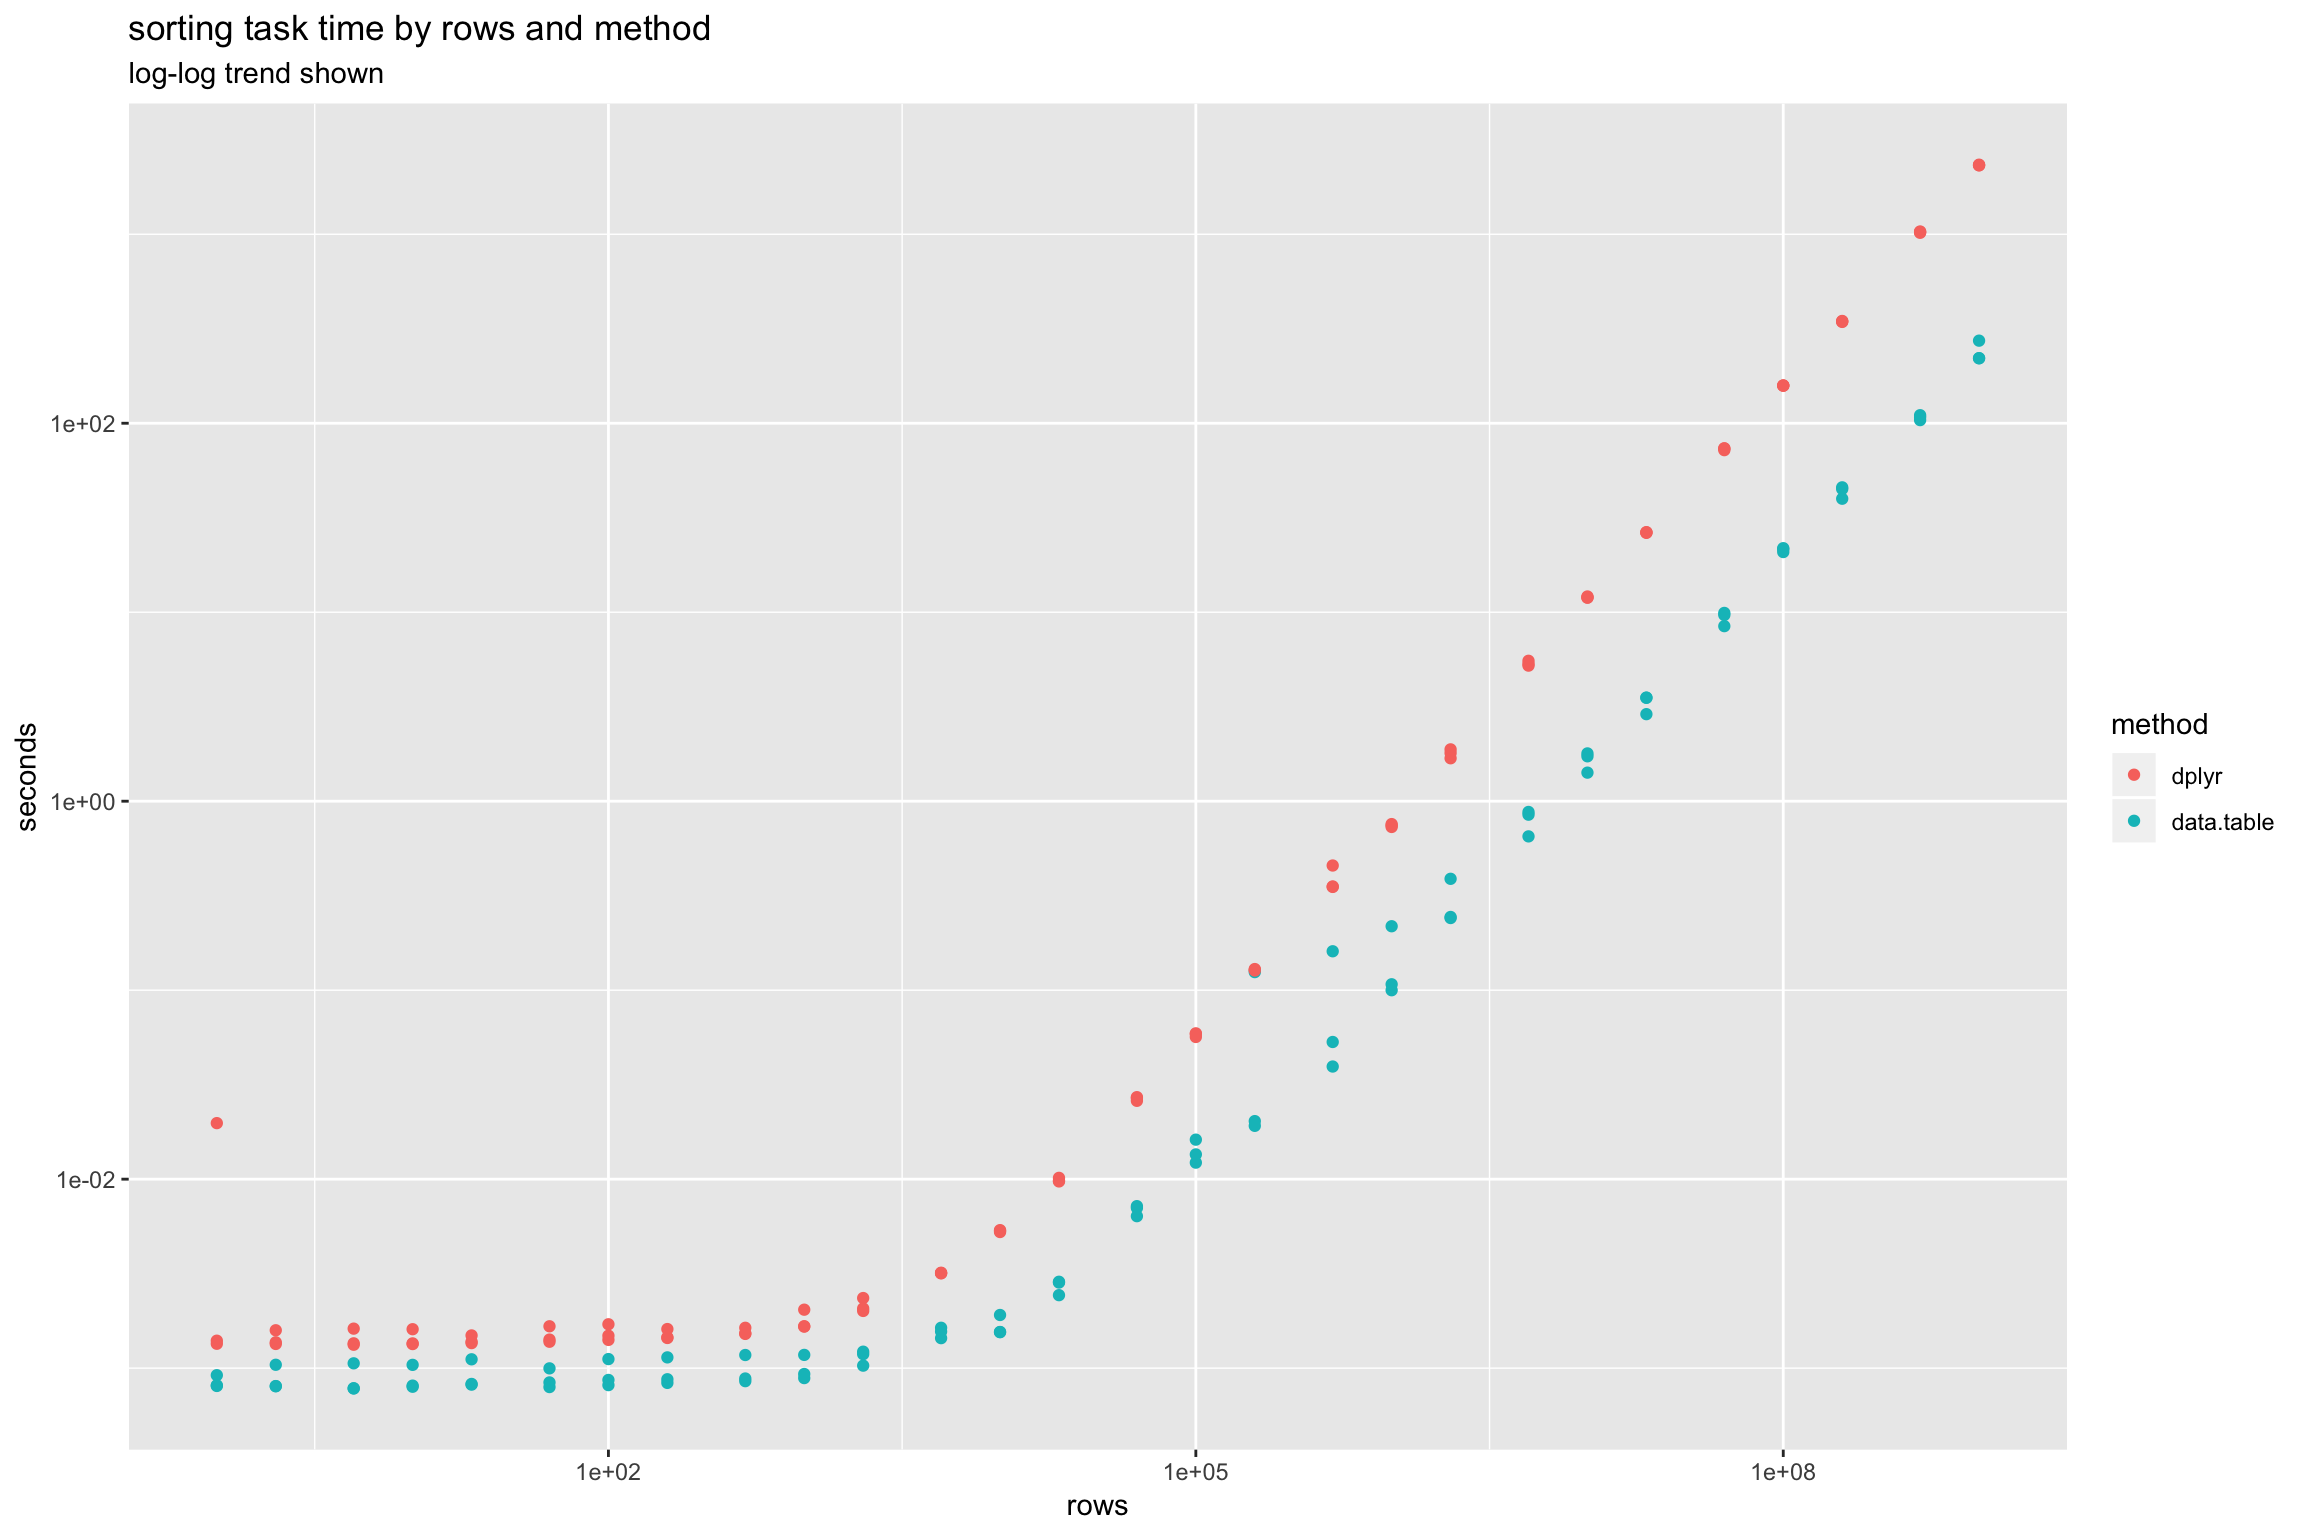
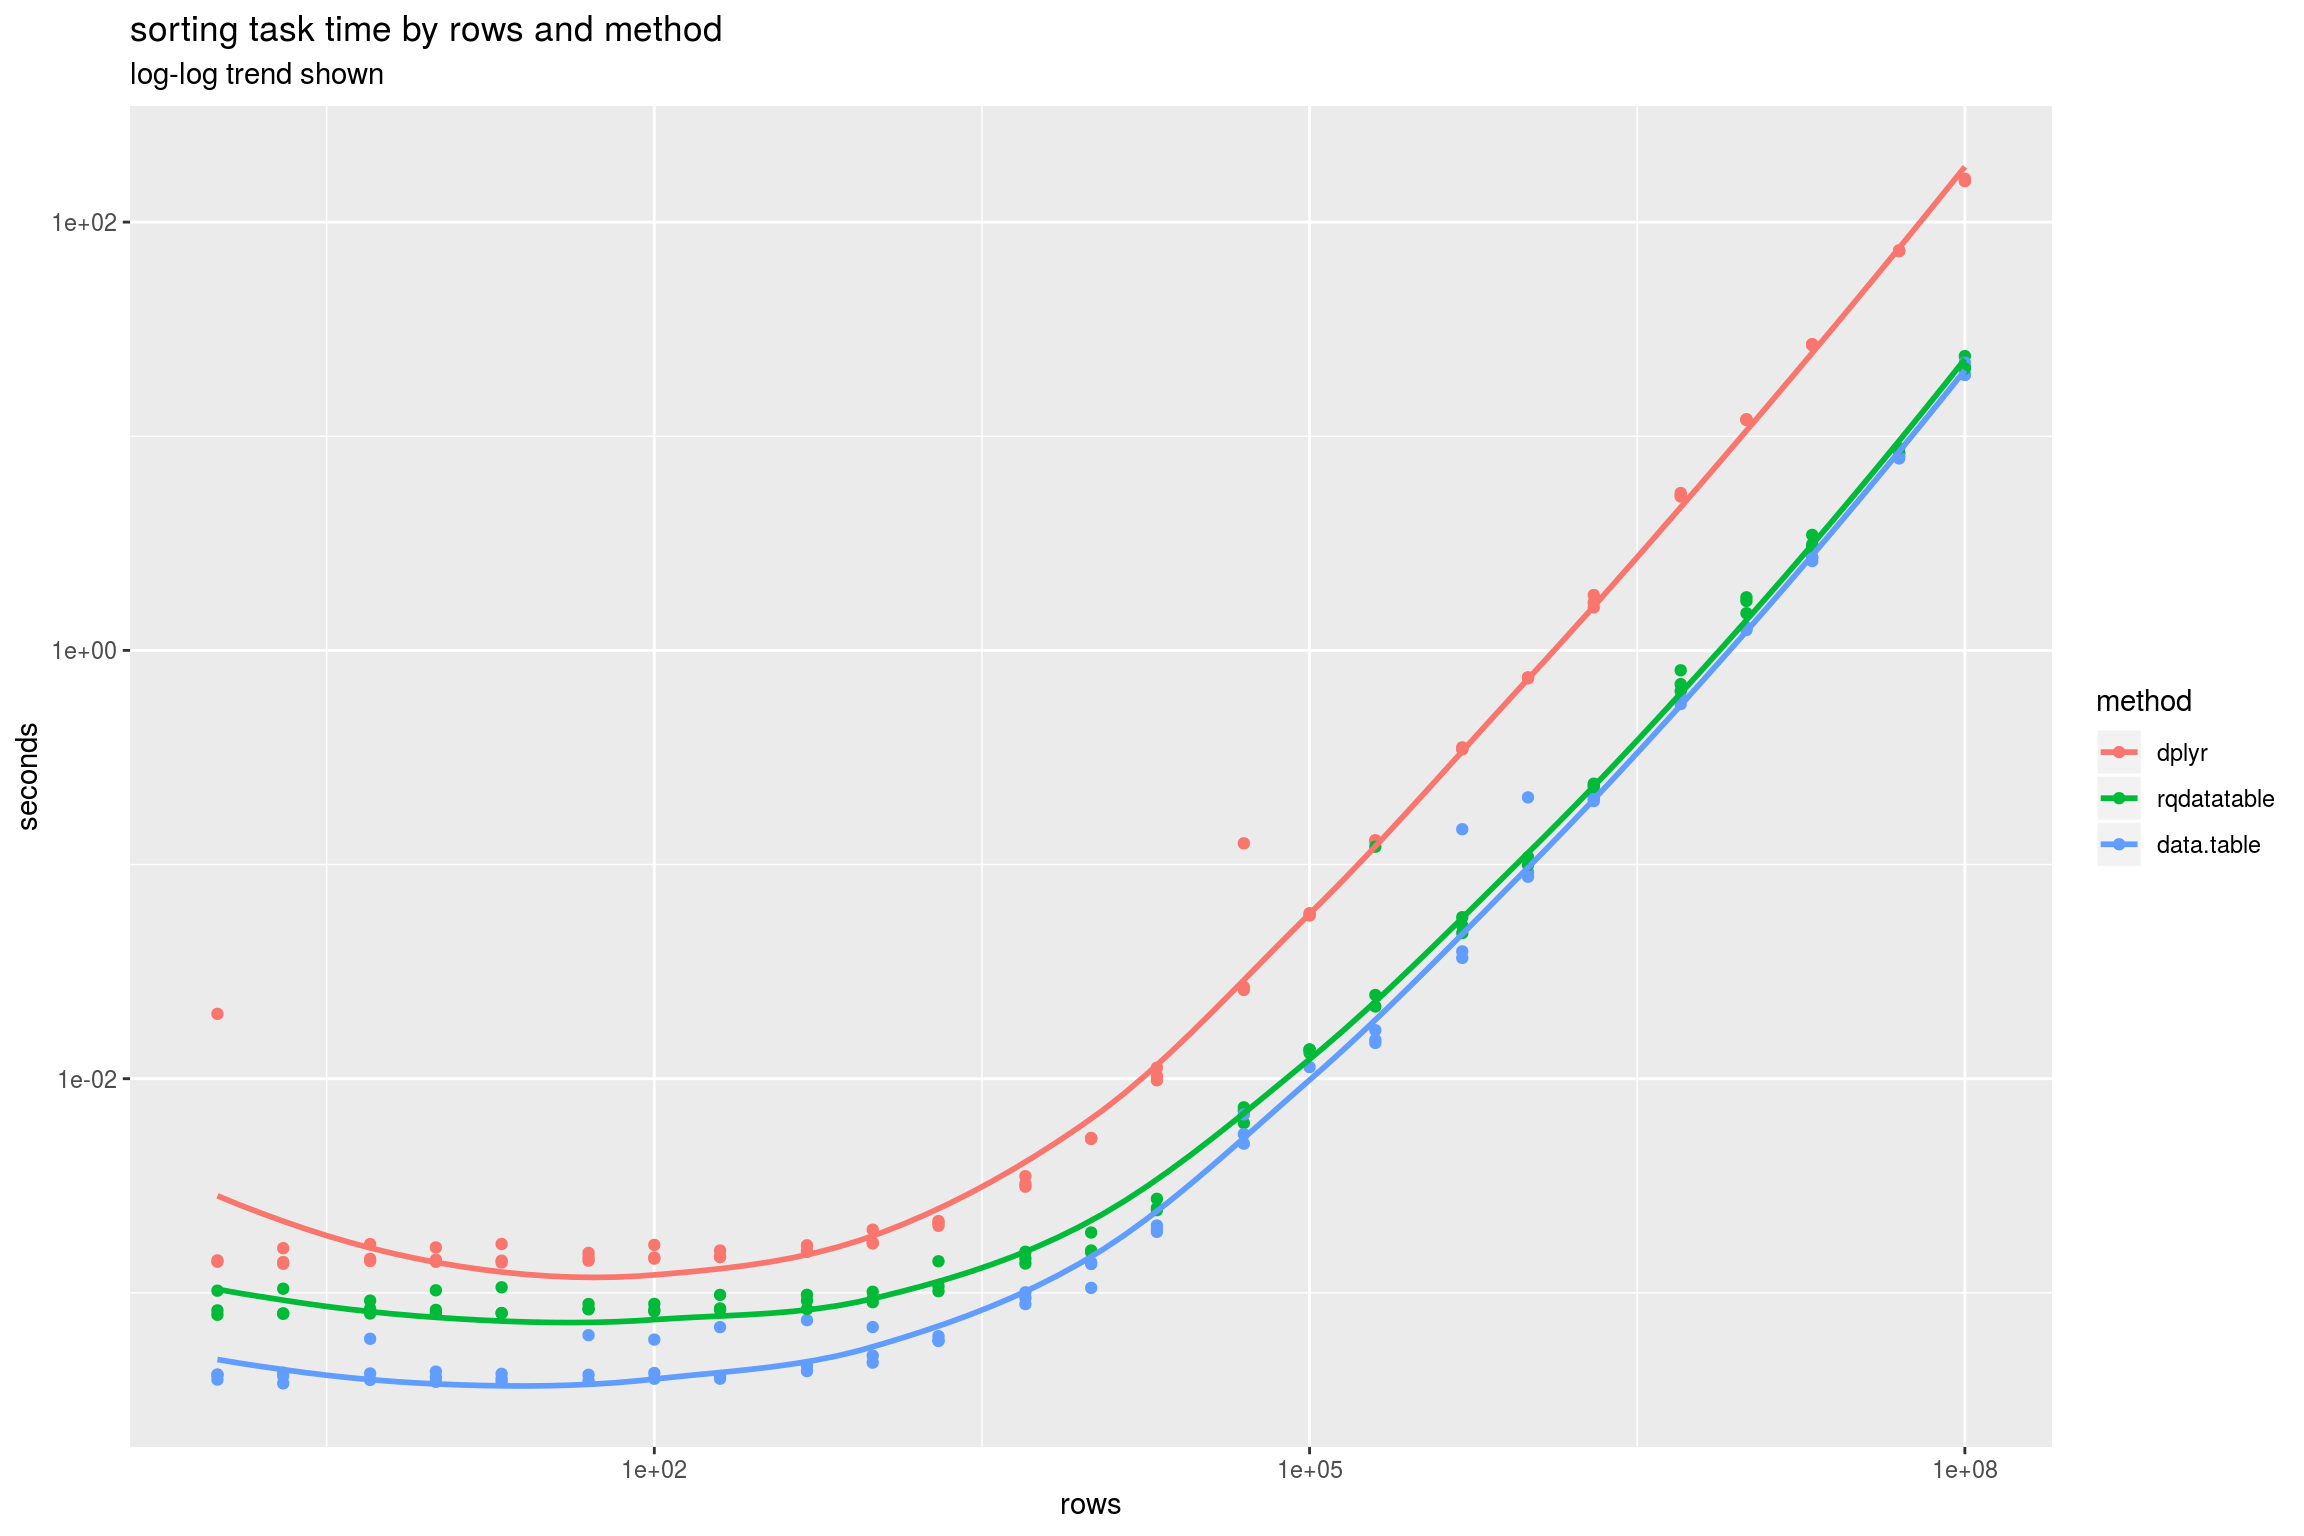
re-run

diff --git a/extras/Sorting.md b/extras/Sorting.md
@@ -17,8 +17,6 @@ library("cdata")
 library("dplyr")
 ```
 
-    ## Warning: package 'dplyr' was built under R version 3.5.1
-
     ## 
     ## Attaching package: 'dplyr'
 
@@ -29,6 +27,17 @@ library("dplyr")
     ## The following objects are masked from 'package:base':
     ## 
     ##     intersect, setdiff, setequal, union
+
+``` r
+library("data.table")
+```
+
+    ## 
+    ## Attaching package: 'data.table'
+
+    ## The following objects are masked from 'package:dplyr':
+    ## 
+    ##     between, first, last
 
 ``` r
 set.seed(32523)
@@ -50,45 +59,78 @@ ops <- mk_td("d", c("col_a", "col_b", "col_c", "col_x")) %.>%
 my_check <- function(values) {
   all(sapply(values[-1], function(x) identical(values[[1]], x)))
 }
+```
 
-if(!file.exists("Sorting_runs.RDS")) {
-  szs <- expand.grid(a = c(1,2,5), b = 10^{0:9})
+``` r
+rds_file <- "Sorting_runs.RDS"
+if(!file.exists(rds_file)) {
+  pow <- 8
+  szs <- expand.grid(a = c(1,2,5), b = 10^{0:pow})
   szs <- sort(unique(szs$a * szs$b))
-  szs <- szs[szs<=1e+9]
+  szs <- szs[szs<=10^pow]
   runs <- lapply(
     szs,
     function(sz) {
       d <- mk_data(sz)
       ti <- microbenchmark(
-        rqdatatable = { d %.>% ops %.>% as.data.frame(.) },
-        dplyr = dplyr::arrange(d, col_a, col_b, col_c, col_x),
+        data.table = {
+          d %.>%
+            as.data.table(.) %.>% 
+            setorder(., col_a, col_b, col_c, col_x) %.>%
+            setDF(.)[] 
+        },
+        rqdatatable = { 
+          d %.>% 
+            ops %.>% 
+            as.data.frame(.) 
+        },
+        dplyr = {
+          dplyr::arrange(d, col_a, col_b, col_c, col_x)
+        },
         times = 3L,
         check = my_check)
       ti <- as.data.frame(ti)
       ti$rows <- sz
       ti
     })
-  saveRDS(runs, "Sorting_runs.RDS")
+  saveRDS(runs, rds_file)
 } else {
-  runs <- readRDS("Sorting_runs.RDS")
+  runs <- readRDS(rds_file)
 }
 ```
 
 ``` r
 timings <- do.call(rbind, runs)
 timings$seconds <- timings$time/1e+9
-timings$method <- gsub("^rqdatatable$", "data.table", timings$expr)
-timings$method <- factor(timings$method)
+timings$method <- factor(timings$expr)
 timings$method <- reorder(timings$method, -timings$seconds)
 
-ggplot(data = timings, aes(x = rows, y = seconds, color = method)) +
+ggplot(data = timings, 
+       aes(x = rows, y = seconds, color = method)) +
   geom_point() + 
+  geom_smooth(se = FALSE) +
   scale_x_log10() + scale_y_log10() +
   ggtitle("sorting task time by rows and method",
           subtitle = "log-log trend shown")
 ```
 
+    ## `geom_smooth()` using method = 'loess' and formula 'y ~ x'
+
 <img src="Sorting_files/figure-markdown_github/present-1.png" width="1152" />
+
+``` r
+ggplot(data = timings[timings$method!="rqdatatable", , drop = FALSE], 
+       aes(x = rows, y = seconds, color = method)) +
+  geom_point() + 
+  geom_smooth(se = FALSE) +
+  scale_x_log10() + scale_y_log10() +
+  ggtitle("sorting task time by rows and method",
+          subtitle = "log-log trend shown")
+```
+
+    ## `geom_smooth()` using method = 'loess' and formula 'y ~ x'
+
+<img src="Sorting_files/figure-markdown_github/present-2.png" width="1152" />
 
 ``` r
 means <- timings %.>%
@@ -102,44 +144,43 @@ means <- timings %.>%
   extend_nse(., 
              ratio = dplyr/data.table,
              ratio_by_log_rows = ratio/log(rows)) %.>%
-  orderby(., "rows")
+  orderby(., "rows") %.>%
+  as.data.frame(.)
 
 knitr::kable(means)
 ```
 
-|   rows|   data.table|         dplyr|     ratio|  ratio\_by\_log\_rows|
-|------:|------------:|-------------:|---------:|---------------------:|
-|  1e+00|    0.0008447|     0.0075125|  8.893619|                   Inf|
-|  2e+00|    0.0008826|     0.0014331|  1.623732|             2.3425501|
-|  5e+00|    0.0008745|     0.0014337|  1.639380|             1.0186042|
-|  1e+01|    0.0008821|     0.0014334|  1.625015|             0.7057349|
-|  2e+01|    0.0009189|     0.0014090|  1.533443|             0.5118759|
-|  5e+01|    0.0008773|     0.0014871|  1.695088|             0.4333021|
-|  1e+02|    0.0009320|     0.0015343|  1.646189|             0.3574653|
-|  2e+02|    0.0009497|     0.0015034|  1.583013|             0.2987765|
-|  5e+02|    0.0009695|     0.0015608|  1.609916|             0.2590536|
-|  1e+03|    0.0009974|     0.0017879|  1.792502|             0.2594912|
-|  2e+03|    0.0011463|     0.0021422|  1.868716|             0.2458545|
-|  5e+03|    0.0015462|     0.0031856|  2.060303|             0.2418993|
-|  1e+04|    0.0016717|     0.0053182|  3.181343|             0.3454099|
-|  2e+04|    0.0027123|     0.0099019|  3.650701|             0.3686278|
-|  5e+04|    0.0068707|     0.0266648|  3.880951|             0.3586904|
-|  1e+05|    0.0139790|     0.0580948|  4.155857|             0.3609731|
-|  2e+05|    0.0546940|     0.1280969|  2.342063|             0.1918769|
-|  5e+05|    0.0844396|     0.3875499|  4.589670|             0.3497594|
-|  1e+06|    0.1417959|     0.7440808|  5.247547|             0.3798301|
-|  2e+06|    0.2911317|     1.7887026|  6.143964|             0.4234688|
-|  5e+06|    0.7923789|     5.3594062|  6.763691|             0.4384903|
-|  1e+07|    1.6448312|    12.0048937|  7.298557|             0.4528176|
-|  2e+07|    3.3158578|    26.4237598|  7.968906|             0.4740224|
-|  5e+07|    9.3422346|    73.0847586|  7.823049|             0.4412937|
-|  1e+08|   21.3954544|   158.2277751|  7.395392|             0.4014722|
-|  2e+08|   43.5116136|   345.7414166|  7.945957|             0.4157177|
-|  5e+08|  107.2533052|  1026.9141090|  9.574662|             0.4780132|
-|  1e+09|  238.3929687|  2323.0695705|  9.744707|             0.4702303|
+|   rows|  data.table|        dplyr|  rqdatatable|      ratio|  ratio\_by\_log\_rows|
+|------:|-----------:|------------:|------------:|----------:|---------------------:|
+|  1e+00|   0.0004077|    0.0076316|    0.0008804|  18.719959|                   Inf|
+|  2e+00|   0.0004035|    0.0014585|    0.0008818|   3.614217|             5.2142136|
+|  5e+00|   0.0004741|    0.0015127|    0.0008543|   3.190409|             1.9823126|
+|  1e+01|   0.0004051|    0.0014841|    0.0008885|   3.663244|             1.5909266|
+|  2e+01|   0.0004001|    0.0014963|    0.0008898|   3.739903|             1.2484104|
+|  5e+01|   0.0004791|    0.0014716|    0.0008554|   3.071596|             0.7851683|
+|  1e+02|   0.0004747|    0.0015271|    0.0008471|   3.216743|             0.6985069|
+|  2e+02|   0.0004983|    0.0015067|    0.0008857|   3.023557|             0.5706636|
+|  5e+02|   0.0005444|    0.0015958|    0.0009128|   2.931345|             0.4716862|
+|  1e+03|   0.0005576|    0.0017957|    0.0009517|   3.220292|             0.4661850|
+|  2e+03|   0.0006078|    0.0021119|    0.0011654|   3.474785|             0.4571543|
+|  5e+03|   0.0009465|    0.0032869|    0.0014573|   3.472520|             0.4077071|
+|  1e+04|   0.0012682|    0.0052561|    0.0016782|   4.144441|             0.4499770|
+|  2e+04|   0.0019908|    0.0104596|    0.0025562|   5.254009|             0.5305210|
+|  5e+04|   0.0057635|    0.0594585|    0.0068824|  10.316401|             0.9534761|
+|  1e+05|   0.0128816|    0.0584981|    0.0135057|   4.541204|             0.3944440|
+|  2e+05|   0.0155656|    0.1291835|    0.0558137|   8.299297|             0.6799318|
+|  5e+05|   0.0740364|    0.3483736|    0.0521505|   4.705438|             0.3585816|
+|  1e+06|   0.1285398|    0.7447626|    0.1051548|   5.794021|             0.4193852|
+|  2e+06|   0.2023114|    1.6917564|    0.2341636|   8.362141|             0.5763552|
+|  5e+06|   0.5872843|    5.3194821|    0.7157426|   9.057763|             0.5872151|
+|  1e+07|   1.2644908|   11.9558664|    1.6543575|   9.455084|             0.5866129|
+|  2e+07|   2.6836465|   26.7849712|    3.2131316|   9.980812|             0.5936986|
+|  5e+07|   7.9980163|   73.4681060|    8.4911241|   9.185791|             0.5181652|
+|  1e+08|  20.2643089|  156.8686366|   21.8431452|   7.741129|             0.4202412|
 
 ``` r
-ggplot(data = means, aes(x = rows, y = ratio)) +
+ggplot(data = means, 
+       aes(x = rows, y = ratio)) +
   geom_point() + 
   geom_smooth(se = FALSE) +
   scale_x_log10() + 
@@ -148,10 +189,11 @@ ggplot(data = means, aes(x = rows, y = ratio)) +
 
     ## `geom_smooth()` using method = 'loess' and formula 'y ~ x'
 
-<img src="Sorting_files/figure-markdown_github/present-2.png" width="1152" />
+<img src="Sorting_files/figure-markdown_github/present-3.png" width="1152" />
 
 ``` r
-ggplot(data = means, aes(x = rows, y = ratio_by_log_rows)) +
+ggplot(data = means, 
+       aes(x = rows, y = ratio_by_log_rows)) +
   geom_point() + 
   geom_smooth(se = FALSE) +
   scale_x_log10() + 
@@ -162,4 +204,4 @@ ggplot(data = means, aes(x = rows, y = ratio_by_log_rows)) +
 
     ## Warning: Removed 1 rows containing non-finite values (stat_smooth).
 
-<img src="Sorting_files/figure-markdown_github/present-3.png" width="1152" />
+<img src="Sorting_files/figure-markdown_github/present-4.png" width="1152" />
